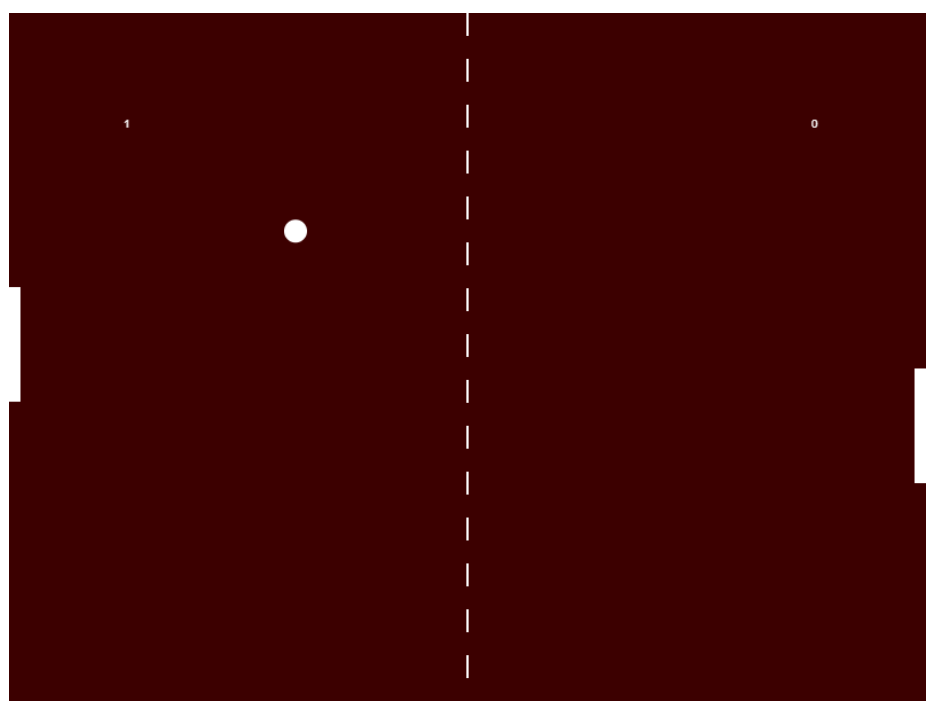
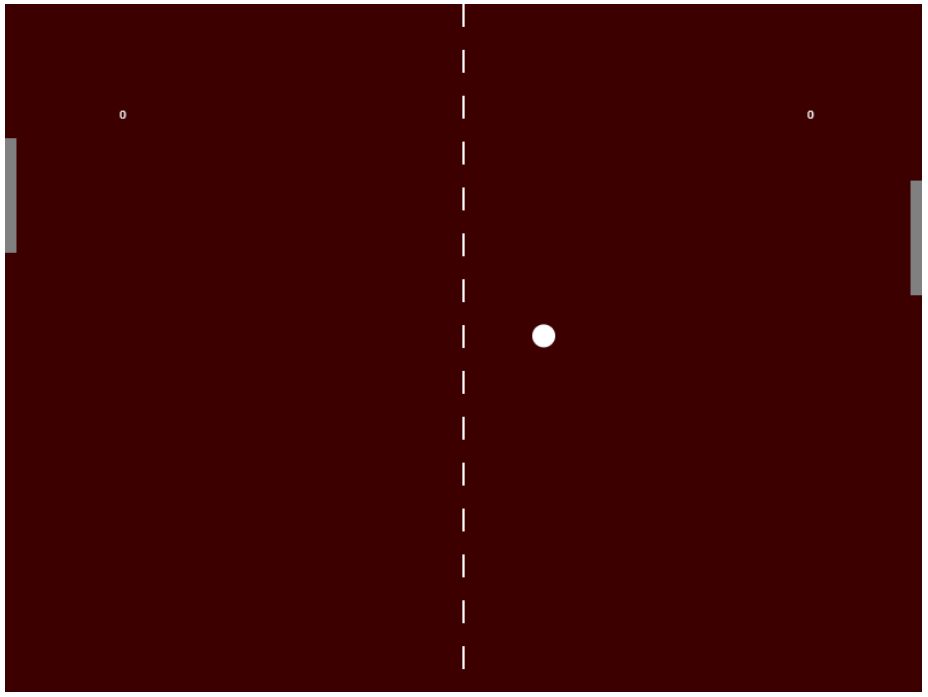
tennis game

diff --git a/script.js b/script.js
@@ -143,10 +143,10 @@ function drawEverything() {
     drawNet();
 
     // this is left player paddle
-    colorRect(0, paddle1Y, PADDLE_THICKNESS, PADDLE_HEIGHT, 'white');
+    colorRect(0, paddle1Y, PADDLE_THICKNESS, PADDLE_HEIGHT, 'grey');
 
     // this is right computer paddle
-    colorRect(canvas.width - PADDLE_THICKNESS, paddle2Y, PADDLE_THICKNESS, PADDLE_HEIGHT, 'white');
+    colorRect(canvas.width - PADDLE_THICKNESS, paddle2Y, PADDLE_THICKNESS, PADDLE_HEIGHT, 'grey');
 
     // next line draws the ball
     colorCircle(ballX, ballY, 10, 'white');
